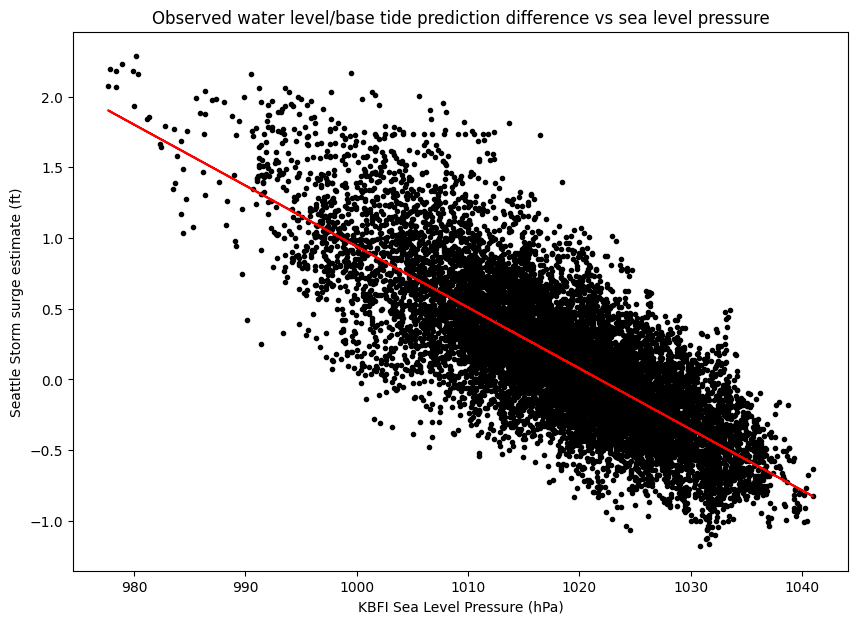
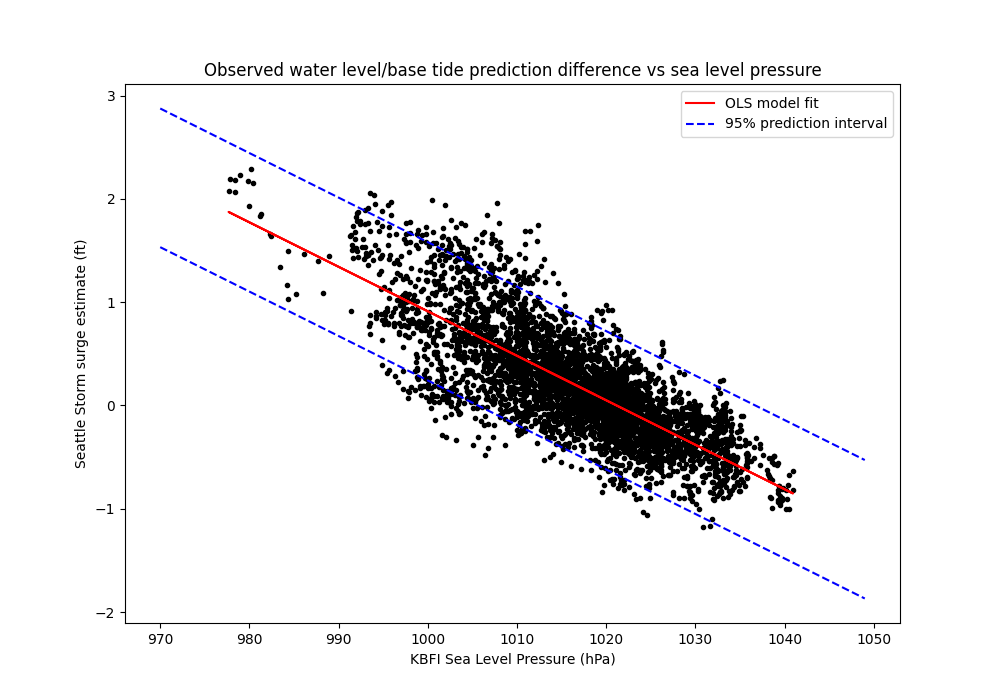
Added prediction intervals to regression plot

diff --git a/tidal_flooding_US.py b/tidal_flooding_US.py
@@ -6,10 +6,11 @@ import numpy as np
 import statsmodels.api as sm
 import seaborn as sns
 from scipy import stats
+from sklearn.linear_model import LinearRegression
 
 
 # Initialize date range. Dates spanning only October 1 - April 1 will be evaluated.
-start_year = 2019
+start_year = 2022
 end_year = 2023
 
 # HTTP response status codes success class (200-299)
@@ -267,6 +268,7 @@ tide_pred = process_json(start_year, end_year, tidal_station_id, tide_product)
 SLP = SLP_data["SLP"].dropna()
 surge = (water_level_obs - tide_pred).dropna().reindex(SLP.index, method="nearest")
 
+
 X = SLP
 X = sm.add_constant(X)
 y = surge["water_level"]
@@ -275,12 +277,13 @@ model = sm.OLS(y, X).fit()
 # Print summary statistics
 print(model.summary())
 
+
 # plot best fit line
 reg_line = model.predict(X)
 fig, ax = plt.subplots()
 fig.set_size_inches(10, 7)
 ax.plot(X["SLP"].values, y.values, "k.")
-ax.plot(X["SLP"].values, reg_line.values, "r")
+ax.plot(X["SLP"].values, reg_line.values, "r", label="OLS model fit")
 ax.set_xlabel(f"{wx_station_code} Sea Level Pressure (hPa)")
 ax.set_ylabel(f"{tidal_station_name} Storm surge estimate (ft)")
 ax.set_title(
@@ -330,7 +333,6 @@ leverage_top_3 = np.flip(np.argsort(Cooks_distance), 0)[:3]
 for i in leverage_top_3:
     ax3.annotate(i, xy=(lev[i], norm_resid[i]))
 
-plt.show()
 
 # Regression model prediction output
 # Create an array of realistic SLP values (900-1050 hPa)
@@ -342,3 +344,8 @@ model_output = pred.summary_frame(alpha=0.05)
 # Add realistic SLP values to output DataFrame
 model_output["SLP_values"] = real_SLP
 model_output.set_index("SLP_values", inplace=True)
+
+ax.plot(model_output["obs_ci_lower"], "b--")
+ax.plot(model_output["obs_ci_upper"], "b--", label="95% prediction interval")
+ax.legend()
+plt.show()
